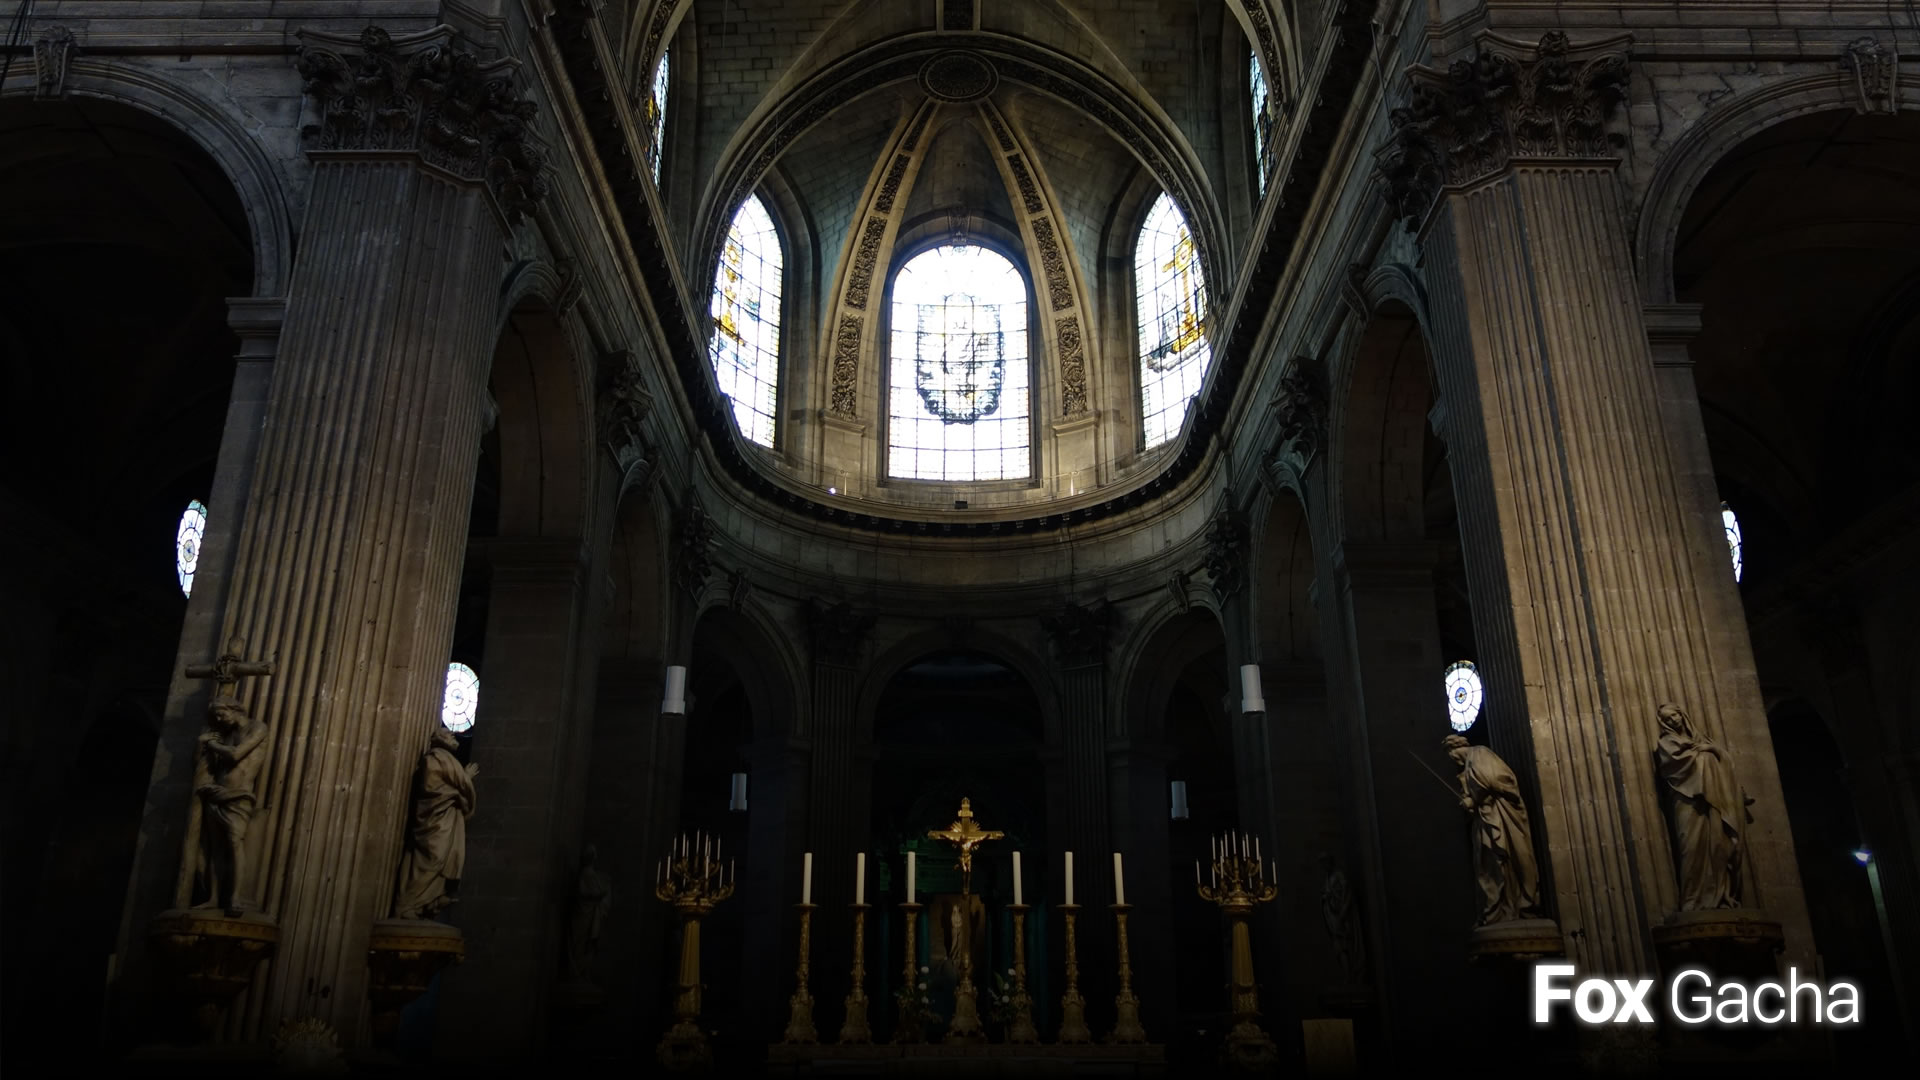
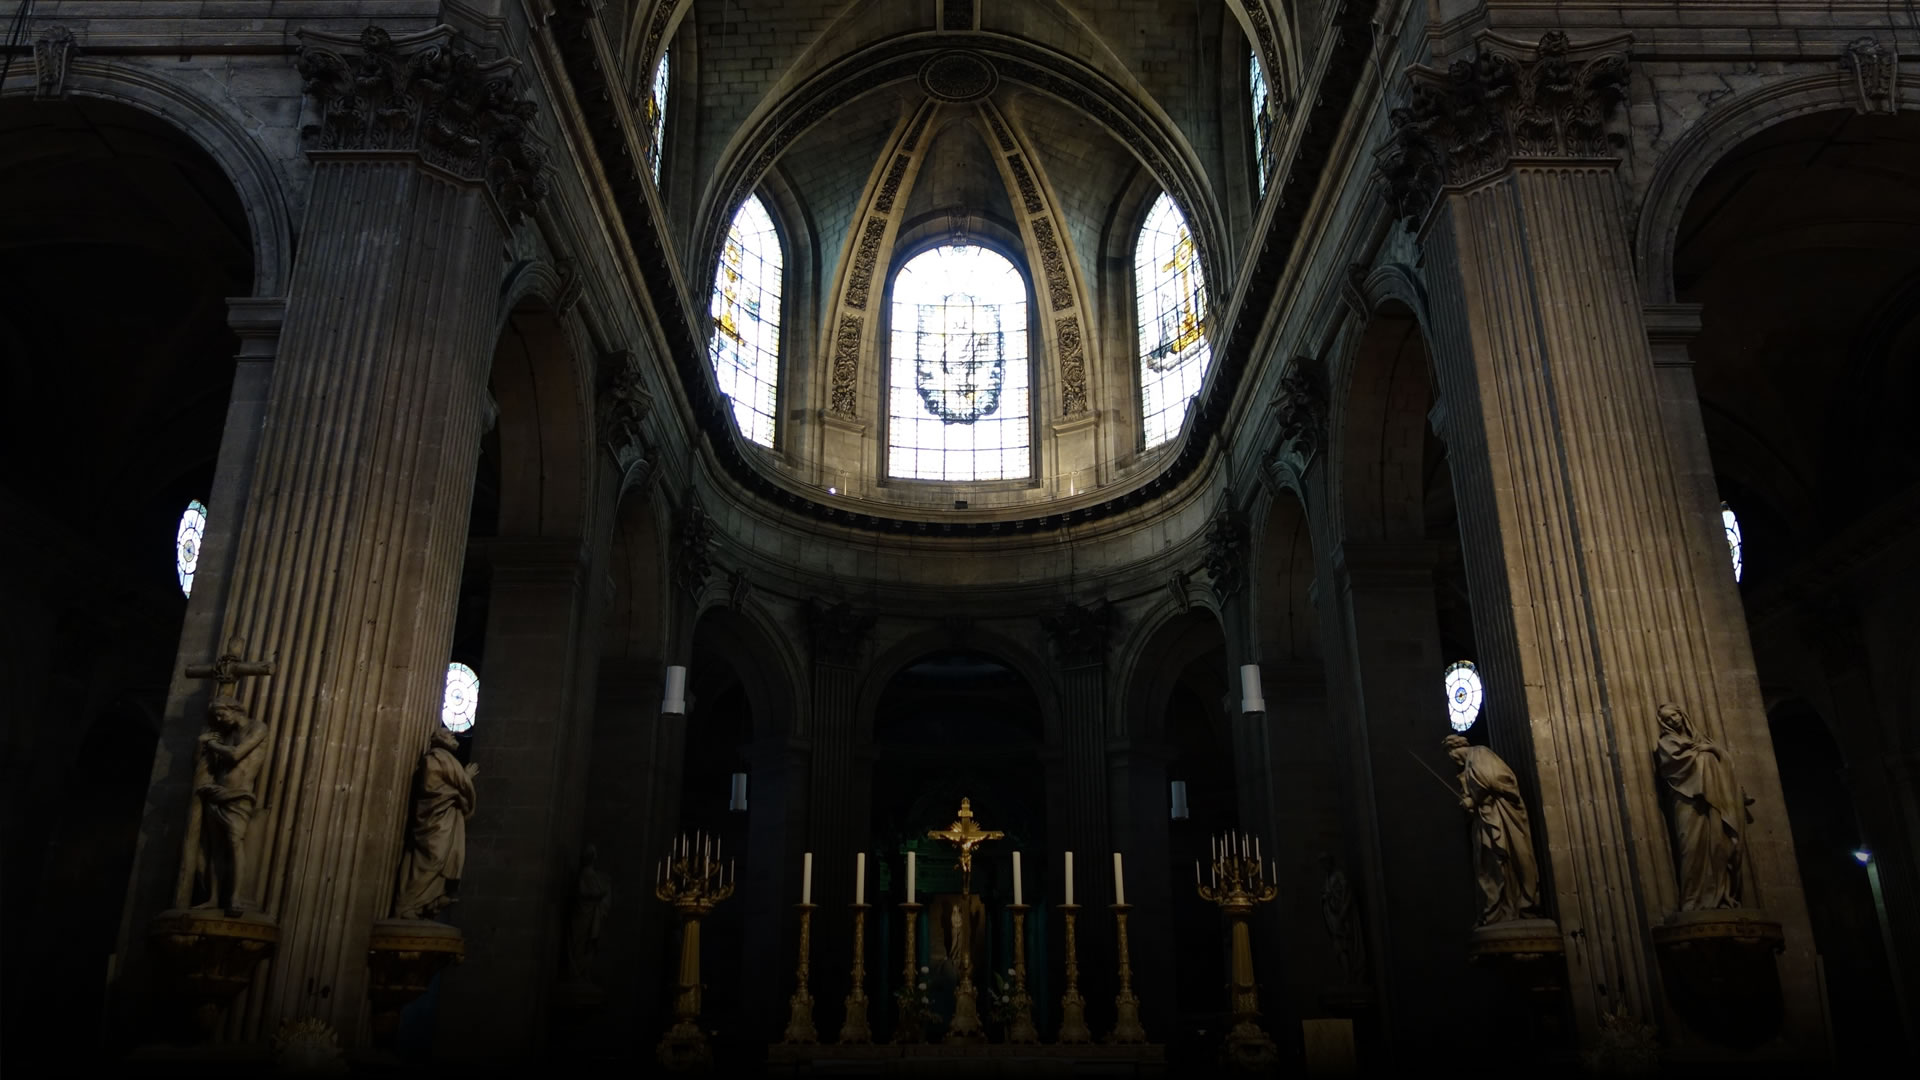
ロゴマークを独立

Changed region(s): [[0.7812, 0.8861, 0.9688, 0.9778]]

diff --git a/ServerApp/src/index.css b/ServerApp/src/index.css
@@ -26,6 +26,8 @@ body,
 #card_front,
 #card-flash1,
 #card-flash2,
+#port,
+#logo,
 #bg{
     position: absolute;
 }
@@ -59,25 +61,41 @@ body,
     background-color: #464646;
 }
 
-#card-flash1{
+#logo{
     z-index: 2;
+    background-image: url(images/logo.png);
+    width: 339px;
+    height: 74px;
+    right: 40;
+    bottom: 40;
+}
+
+#port{
+    z-index: 3;
+    color: #ffffff;
+    left: 40;
+    bottom: 40;
+}
+
+#card-flash1{
+    z-index: 4;
     background-image: url(images/card-flash1.png);
 }
 
 #card-flash2{
-    z-index: 3;
+    z-index: 5;
     background-image: url(images/card-flash2.png);
 }
 
 #card_back{
-    z-index: 4;
+    z-index: 6;
     background-image: url(images/card_back.png);
     width: 600px;
     height: 800px;
 }
 
 #card_front{
-    z-index: 5;
+    z-index: 7;
     width: 600px;
     height: 800px;
 }

diff --git a/ServerApp/src/index.html b/ServerApp/src/index.html
@@ -13,15 +13,17 @@
 
 <body>
     <section id="contents">
-        <div id="card_front"> </div>
-        <div id="card_back"> </div>
-        <div id="card-flash1"> </div>
-        <div id="card-flash2"> </div>
-        <div id="bg"> </div>
+        <div id="card_front"></div>
+        <div id="card_back"></div>
+        <div id="card-flash1"></div>
+        <div id="card-flash2"></div>
+        <div id="port">none</div>
+        <div id="logo"></div>
+        <div id="bg"></div>
     </section>
     
     <section id="log">
-        <div id="port"></div>
+        
         <div><pre id="request"></pre></div>
     </section>
 </body>
